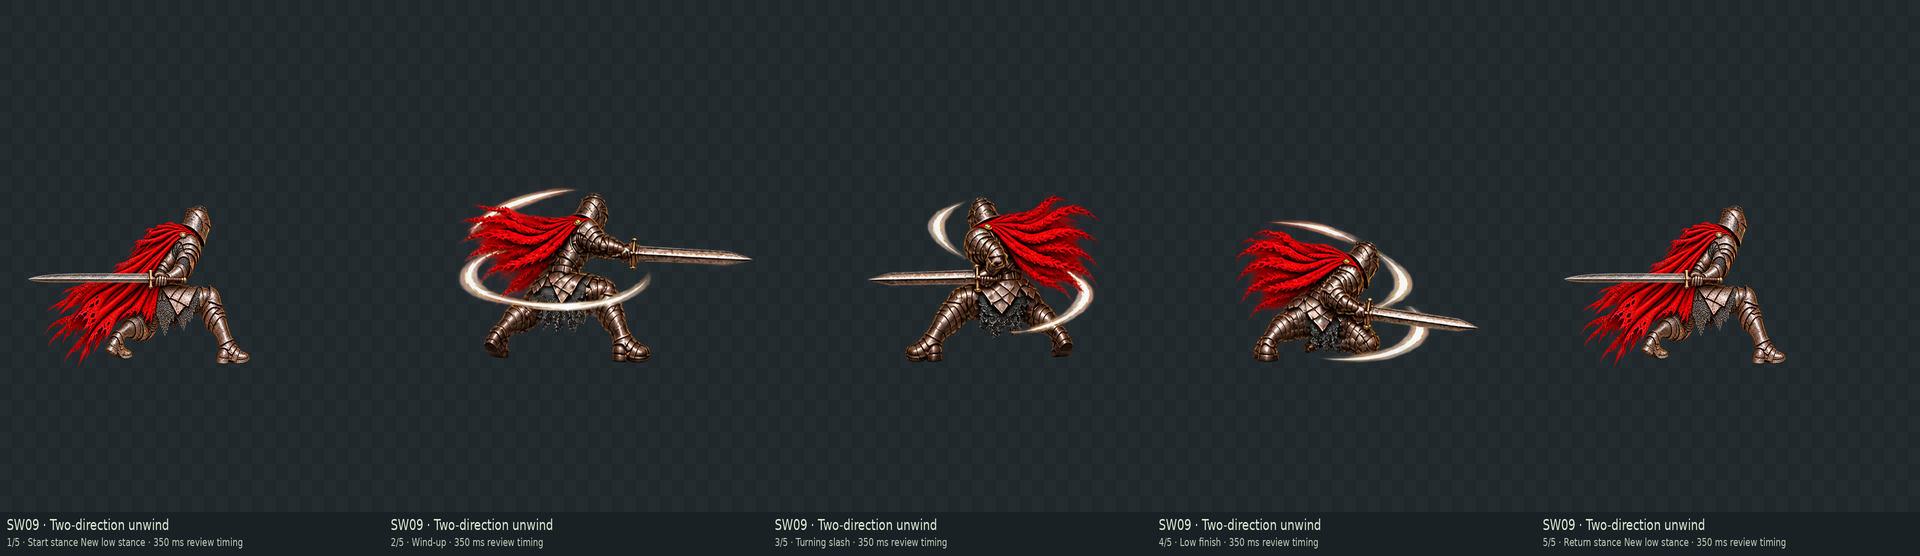
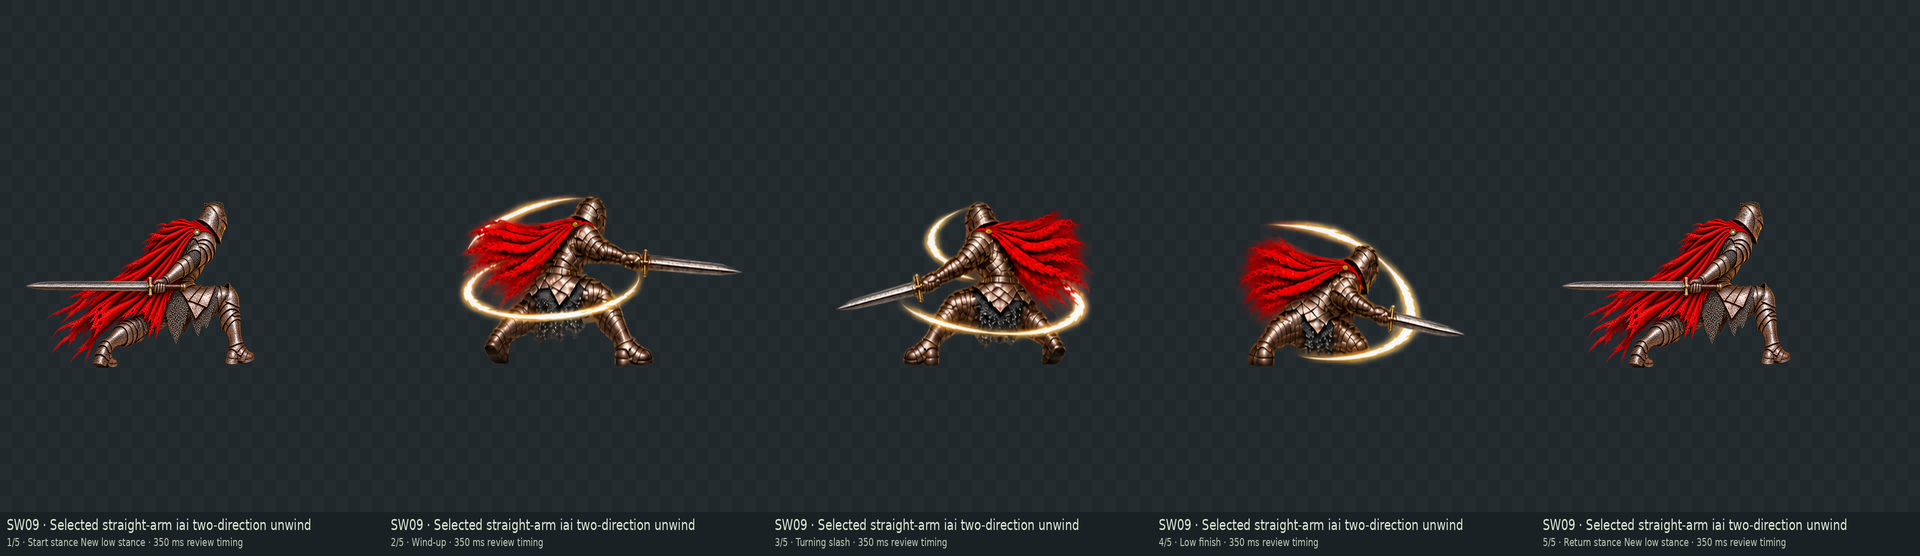
review: bind approved straight-arm SW09 source revision

diff --git a/pose-studio/stances/update-stances/smash-sweep-examples/index.html b/pose-studio/stances/update-stances/smash-sweep-examples/index.html
@@ -1,5 +1,5 @@
 <!doctype html><html lang="en"><head><meta charset="utf-8"><meta name="viewport" content="width=device-width,initial-scale=1"><title>Sweep and Smash sequence options</title><link rel="stylesheet" href="gallery.css"></head><body><main>
-<header><p class="eyebrow">Reaver · Greatsword · New sequence options</p><h1>Ten Sweep. Ten Smash.</h1><p>Revised iai-inspired Sweep and heavy jumping ground-slam Smash. Each example has five total slots: approved starting stance, three action images, then that same stance. SM03 is owner-selected for Smash and implemented in the runtime candidate; compiled gameplay validation is pending. SW09 is selected for Sweep with its straight sword-arm correction in progress. Other examples remain references.</p><p id="review-status" class="caveat" hidden></p><a href="README.md">Portable animations and source records</a></header>
+<header><p class="eyebrow">Reaver · Greatsword · New sequence options</p><h1>Ten Sweep. Ten Smash.</h1><p>Revised iai-inspired Sweep and heavy jumping ground-slam Smash. Each example has five total slots: approved starting stance, three action images, then that same stance. SM03 is owner-selected for Smash and implemented in the runtime candidate; compiled gameplay validation is pending. SW09 is selected for Sweep with its straight-arm low iai source approved; production integration is pending. Other examples remain references.</p><p id="review-status" class="caveat" hidden></p><a href="README.md">Portable animations and source records</a></header>
 <section aria-label="Choose an example"><div id="families" class="families"></div><div id="examples" class="examples"></div></section>
 <section class="player"><div class="pose-header"><h2 id="title">Loading…</h2><p id="step-label" aria-live="polite"></p></div><div class="art"><img id="frame" alt=""></div><p id="selection-status" class="caveat" hidden></p><p id="caveat" class="caveat" hidden></p><div class="transport"><button id="previous" type="button">← Previous</button><button id="play" type="button">Play</button><button id="next" type="button">Next →</button><label>Speed <select id="speed"><option value="0.5">0.5×</option><option value="1" selected>1×</option><option value="2">2×</option></select></label><label><input id="loop" type="checkbox"> Loop</label></div><div id="timeline" class="timeline" aria-label="Choose any slot"></div><p id="timing">350 ms per slot at 1×, review timing. Hard cuts only; no generated in-between poses.</p><p><a id="gif" href="#">Labeled GIF</a> · <a id="storyboard" href="#">Artist contact sheet</a> · <a id="provenance" href="#">Source provenance</a></p><button id="copy" type="button">Copy example ID</button><output id="copy-status" aria-live="polite"></output></section>
 <footer><p>50 slots per family: ten examples × five slots. The first and last slots repeat the new approved low Sweep stance or S (Smash). The earlier horizontal Sweep and vault studies remain superseded source history. Review registration preserves each family’s canvas and approved bookend pixels; airborne movement stays visible. <a href="examples.json">Example index</a>.</p></footer>

diff --git a/pose-studio/stances/update-stances/smash-sweep-examples/README.md b/pose-studio/stances/update-stances/smash-sweep-examples/README.md
@@ -1,12 +1,12 @@
 # Revised Sweep and Smash sequence options
 
-Twenty revised sequences are ready for review: **ten low iai-inspired Sweep and ten heavy jumping ground-slam Smash examples, five total slots each**. **SM03 · Twisting aerial slam is owner-selected for Smash and implemented in the runtime candidate; compiled gameplay validation is pending.** The other nine Smash examples remain references. **SW09 · Two-direction unwind is selected for Sweep, with a straight sword-arm correction and clearer low iai hold in progress.** Its current frames remain preserved review history; corrected source and runtime integration are pending.
+Twenty revised sequences are ready for review: **ten low iai-inspired Sweep and ten heavy jumping ground-slam Smash examples, five total slots each**. **SM03 · Twisting aerial slam is owner-selected for Smash and implemented in the runtime candidate; compiled gameplay validation is pending.** The other nine Smash examples remain references. **SW09 is selected for Sweep with its corrected straight sword arm and low iai hold now director-approved.** The viewer uses that corrected revision; its production and runtime integration are pending. The original SW09 source remains preserved as history.
 
 Each example has **five total slots**: approved starting stance → three action images → the exact same stance. The [interactive viewer](index.html) provides play/pause, speed, numbered stepping and a copyable example ID. Our labeled GIFs use uniform **350 ms review exposures**, hard cuts and no synthesized in-between poses. Artist source GIFs retain their separately recorded review timing.
 
 ## Revised iai Sweep · SW01–SW10
 
-The five numbered slots are **Start stance → Wind-up → Turning slash → Low finish → Return stance**. The new low draw stance shows the visible near/right inner elbow and an underhand grip: thumb up, knuckles down, palm beneath the hilt. Every example twists into a surrounding whirlwind slash and repeats the exact new approved seed at both ends. Runtime W remains unchanged while the selected SW09 straight-arm correction and dedicated Sweep integration are prepared.
+The five numbered slots are **Start stance → Wind-up → Turning slash → Low finish → Return stance**. The new low draw stance shows the visible near/right inner elbow and an underhand grip: thumb up, knuckles down, palm beneath the hilt. Every example twists into a surrounding whirlwind slash and repeats its exact approved seed at both ends. SW09 now uses the separately approved straight-arm seed; the other nine retain their review seed. Runtime W remains unchanged while the selected SW09 production and dedicated Sweep integration are prepared.
 
 ![Ten revised iai whirlwind Sweep sequences](sweep/iai-whirlwind-v2/comparison-2x5.gif)
 
@@ -20,10 +20,10 @@ The five numbered slots are **Start stance → Wind-up → Turning slash → Low
 | SW06 | Low leg orbit | [GIF](renders/SW06.gif) | [Storyboard](renders/SW06-storyboard.png) | [Provenance](sweep/iai-whirlwind-v2/Sweep06/provenance.json) |
 | SW07 | Compact low finish | [GIF](renders/SW07.gif) | [Storyboard](renders/SW07-storyboard.png) | [Provenance](sweep/iai-whirlwind-v2/Sweep07/provenance.json) |
 | SW08 | Broad orbit | [GIF](renders/SW08.gif) | [Storyboard](renders/SW08-storyboard.png) | [Provenance](sweep/iai-whirlwind-v2/Sweep08/provenance.json) |
-| **SW09 · Selected Sweep / revision pending** | Two-direction unwind | [GIF](renders/SW09.gif) | [Storyboard](renders/SW09-storyboard.png) | [Provenance](sweep/iai-whirlwind-v2/Sweep09/provenance.json) |
+| **SW09 · Selected Sweep** | Selected straight-arm iai two-direction unwind | [GIF](renders/SW09.gif) | [Storyboard](renders/SW09-storyboard.png) | [Provenance](sweep/selected-sweep-sw09/provenance.json) |
 | SW10 | Advancing low whirlwind | [GIF](renders/SW10.gif) | [Storyboard](renders/SW10-storyboard.png) | [Provenance](sweep/iai-whirlwind-v2/Sweep10/provenance.json) |
 
-[Sweep source manifest](sweep/iai-whirlwind-v2/manifest.json) · [New low stance seed](sweep/iai-whirlwind-v2/seed/stance-final.png).
+[Nine reference Sweep examples and original SW09](sweep/iai-whirlwind-v2/manifest.json) · [Selected straight-arm SW09 manifest](sweep/selected-sweep-sw09/manifest.json) · [Selected low stance seed](sweep/selected-sweep-sw09/seed/stance-final.png).
 
 ## Revised ground-slam Smash · SM01–SM10
 
@@ -48,7 +48,7 @@ There are **50 slots per family, 100 total**. Smash has 30 action paintings and 
 
 ## Superseded source history
 
-The earlier horizontal Sweep and jump/vault Smash studies are preserved as history and are not active gallery choices: [earlier Sweep manifest](sweep/legacy-horizontal-v1/manifest.json) and [earlier Smash index](smash/index.json). Stable option IDs are reused for the revised candidates; they do not imply the same painting. SM03 and SW09 are owner-selected; SW09 still requires the requested straight-arm correction. Its [production export provenance](../selected-smash-sm03/production.json) records the Full/Lite derivatives; the runtime candidate still awaits compiled gameplay validation.
+The earlier horizontal Sweep and jump/vault Smash studies are preserved as history and are not active gallery choices: [earlier Sweep manifest](sweep/legacy-horizontal-v1/manifest.json) and [earlier Smash index](smash/index.json). Stable option IDs are reused for the revised candidates; they do not imply the same painting. SM03 and the corrected straight-arm SW09 are owner-selected. The original SW09 depiction remains preserved in the iai-whirlwind-v2 source history. Its [production export provenance](../selected-smash-sm03/production.json) records the Full/Lite derivatives; the runtime candidate still awaits compiled gameplay validation.
 
 [Motion reference history and latest direction](../../../../docs/design/update-stances/smash-sweep-motion-references.md) · [Approved runtime PR #1897 proof](../../../../docs/design/update-stances/runtime-qa/README.md).
 

diff --git a/CREDITS.md b/CREDITS.md
@@ -37,7 +37,7 @@ The [labeled sequence review](pose-studio/stances/update-stances/sequence-review
 
 ### Sweep and Smash example art (2026-10-12)
 
-The [five-slot option gallery](pose-studio/stances/update-stances/smash-sweep-examples/README.md) uses first-party OpenAI ImageGen paintings from the project's Reaver references under human art direction. The owner superseded the earlier horizontal Sweep and jump/vault Smash studies with low iai-inspired draw/whirlwind Sweep and heavy jumping ground-slam Smash. Earlier raw paintings and provenance remain preserved as source history. The revised Smash set records 30 action paintings and 20 repeated S exposures, preserving S decoded RGBA pixels at the approved unscaled padded placement. Revised Sweep uses a separately approved low stance, without overwriting runtime W. Exact raw outputs, prompts, repairs, crop/scale/placement and source hashes accompany the artist manifests. The gallery renderer composes labels and hard cuts only. SM03, Twisting aerial slam, is owner-selected for Smash and implemented in the runtime candidate; compiled gameplay validation is pending. SW09, Two-direction unwind, is also owner-selected for Sweep with a straight sword-arm correction and clearer low iai hold in preparation. Other examples remain references, and the original SW09 source is preserved as history. External references contribute documented research/inference only; no third-party artwork or licence is asserted.
+The [five-slot option gallery](pose-studio/stances/update-stances/smash-sweep-examples/README.md) uses first-party OpenAI ImageGen paintings from the project's Reaver references under human art direction. The owner superseded the earlier horizontal Sweep and jump/vault Smash studies with low iai-inspired draw/whirlwind Sweep and heavy jumping ground-slam Smash. Earlier raw paintings and provenance remain preserved as source history. The revised Smash set records 30 action paintings and 20 repeated S exposures, preserving S decoded RGBA pixels at the approved unscaled padded placement. Revised Sweep uses a separately approved low stance, without overwriting runtime W. Exact raw outputs, prompts, repairs, crop/scale/placement and source hashes accompany the artist manifests. The gallery renderer composes labels and hard cuts only. SM03, Twisting aerial slam, is owner-selected for Smash and implemented in the runtime candidate; compiled gameplay validation is pending. SW09 is also owner-selected for Sweep; its approved straight sword-arm correction and clearer low iai hold are recorded separately in `sweep/selected-sweep-sw09/` with original/repair prompts, normalized frames and hash provenance. Production/runtime integration is pending. Other examples remain references, and the original SW09 source is preserved as history. External references contribute documented research/inference only; no third-party artwork or licence is asserted.
 
 ## Molten River Blight meter (2026-10-08)
 

diff --git a/docs/design/update-stances/delivery-status.md b/docs/design/update-stances/delivery-status.md
@@ -41,4 +41,4 @@ The 350 ms unit belongs only to the [readable review GIFs](../../../pose-studio/
 
 ## New Smash selection and revised Sweep review
 
-The owner selected **SM03 · Twisting aerial slam** from the [revised five-slot gallery](../../../pose-studio/stances/update-stances/smash-sweep-examples/README.md) for Smash. Its approved source is `smash/ground-slam-revision-2/SM03/`, with start stance → takeoff → airborne load → ground impact → the same starting stance. The Full/Lite production exports and runtime registration are now integrated in this branch from worker `c764c9662`, including production provenance `d51ce7cd0`; compiled desktop/phone gameplay validation is pending. The dedicated Smash clip uses takeoff, airborne load and ground impact while preserving the selected S hold and the separate six-phase Attack clip. The other nine Smash examples remain reference choices. All ten revised iai-inspired Sweep examples are integrated for review. The owner selected **SW09 · Two-direction unwind**, requesting a straight sword arm rather than the bent elbow and a clearer low iai held stance. That source revision and dedicated Sweep runtime integration are in progress; the original SW09 depiction and current runtime W remain preserved. This later selection is separate from the already merged PR #1897 runtime proof above.
+The owner selected **SM03 · Twisting aerial slam** from the [revised five-slot gallery](../../../pose-studio/stances/update-stances/smash-sweep-examples/README.md) for Smash. Its approved source is `smash/ground-slam-revision-2/SM03/`, with start stance → takeoff → airborne load → ground impact → the same starting stance. The Full/Lite production exports and runtime registration are now integrated in this branch from worker `c764c9662`, including production provenance `d51ce7cd0`; compiled desktop/phone gameplay validation is pending. The dedicated Smash clip uses takeoff, airborne load and ground impact while preserving the selected S hold and the separate six-phase Attack clip. The other nine Smash examples remain reference choices. All ten revised iai-inspired Sweep examples are integrated for review. The owner selected **SW09 · Two-direction unwind**, requesting a straight sword arm rather than the bent elbow and a clearer low iai held stance. The corrected source revision `6b7fac1ff` is now director-approved and active in the viewer at `sweep/selected-sweep-sw09/`; production export and dedicated Sweep runtime integration are pending. The original SW09 depiction and current runtime W remain preserved. This later selection is separate from the already merged PR #1897 runtime proof above.
